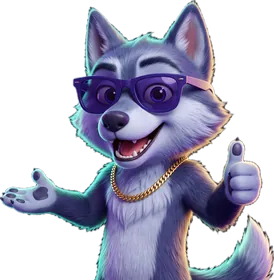
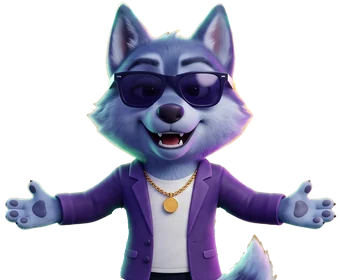
feat: Wynn dressed (blazer, tee, chain) from the owner's Figma HeroPic_mob_01

diff --git a/wheel-web.css b/wheel-web.css
@@ -50,7 +50,7 @@
   --bay-gap: 6px; --bay-b: 9px;
   --bay-w: 124; --bay-h: 72; --gold-k: 1.22;
   --bays-w: calc(var(--bay-w) * (2 + var(--gold-k)) * var(--bk) + 2 * var(--bay-gap));
-  --wynn-w: 94px; --wynn-gap: 2px;
+  --wynn-w: 116px; --wynn-gap: 2px;
   --vault-w: calc(var(--bays-w) + var(--wynn-gap) + var(--wynn-w));
   --rail-b: 4px;                   /* the sill / rail line, from the card's bottom */
 
@@ -287,7 +287,7 @@
 .wwc__wynn {
   position: absolute; z-index: 0; display: block;
   left: calc(var(--bays-w) + var(--wynn-gap)); bottom: 0;
-  width: var(--wynn-w); height: calc(var(--wynn-w) * 280 / 274);
+  width: var(--wynn-w); height: calc(var(--wynn-w) * 280 / 340);
   background: url(wheel-web-wynn.webp) center / 100% 100% no-repeat;
   filter: drop-shadow(-2px 4px 6px rgba(3, 8, 28, .5));
 }
@@ -352,7 +352,7 @@
     --wheel: 72px; --cta-w: 128px; --cta-h: 42px; --cta-fs: 16px;
     --mq-w: 190px; --plate-w: 98px; --plate-top: 4px; --jp-w: 156px; --jp-top: 29px;
     --bk: .7px; --bay-gap: 5px;
-    --wynn-w: 72px;
+    --wynn-w: 89px;
   }
   .wwc__cta { gap: 6px; }
   .wwc__turn { width: 14px; height: 14px; }
